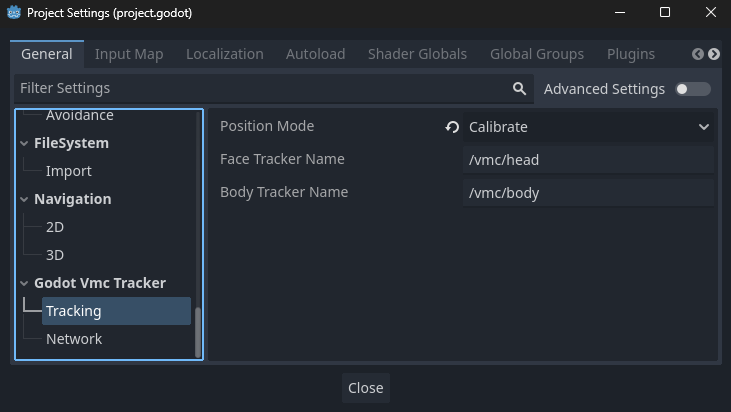
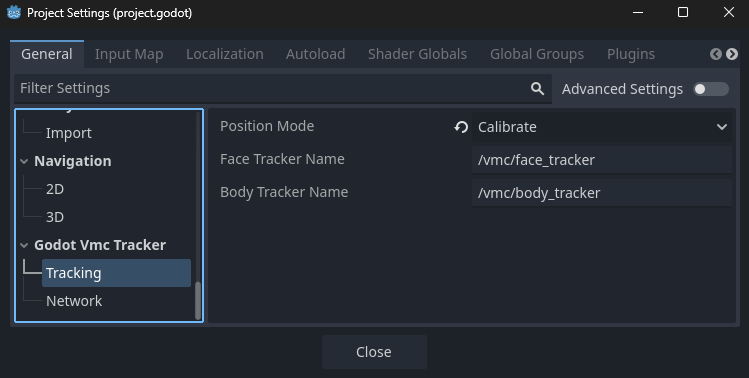
Updates for SkeletonModifier3D/XRTracker changes.

diff --git a/README.md b/README.md
@@ -16,7 +16,9 @@ Official releases are tagged and can be found [here](https://github.com/Malcolmn
 The following branches are in active development:
 |  Branch   |  Description                  |  Godot version   |
 |-----------|-------------------------------|------------------|
-|  master   | Current development branch    |  Godot 4.3-dev4+ |
+|  master   | Current development branch    |  Godot 4.3-dev6+ |
+
+NOTE:This requires the [XR Trackers](https://github.com/godotengine/godot/pull/90645) PR which is in the Godot master branch, but no release has been made.
 
 ## Overview
 
@@ -54,7 +56,11 @@ The character model must be in Godot Humanoid format. This can be achieved in th
 
 ### Body Driving
 
-The body is driven using an [XRBodyModifier3D](https://docs.godotengine.org/en/latest/classes/class_xrbodymodifier3d.html) node configured to drive the skeleton of the character:
+The body is positioned using an [XRNode3D](https://docs.godotengine.org/en/latest/classes/class_xrnode3d.html) node configured to track the character body:
+
+![XRNode3D](/docs/xrnode3d.png)
+
+The body is posed using an [XRBodyModifier3D](https://docs.godotengine.org/en/latest/classes/class_xrbodymodifier3d.html) node skeleton modifier:
 
 ![XRBodyModifier3D](/docs/xrbodymodifier3d.png)
 

diff --git a/VERSIONS.md b/VERSIONS.md
@@ -1,3 +1,6 @@
+# 1.2.0
+- Updated for changes to XR Tracker names and hierarchy
+
 # 1.1.0
 - Set tracker "Root" under hips
 - Move avatars under body modifier
